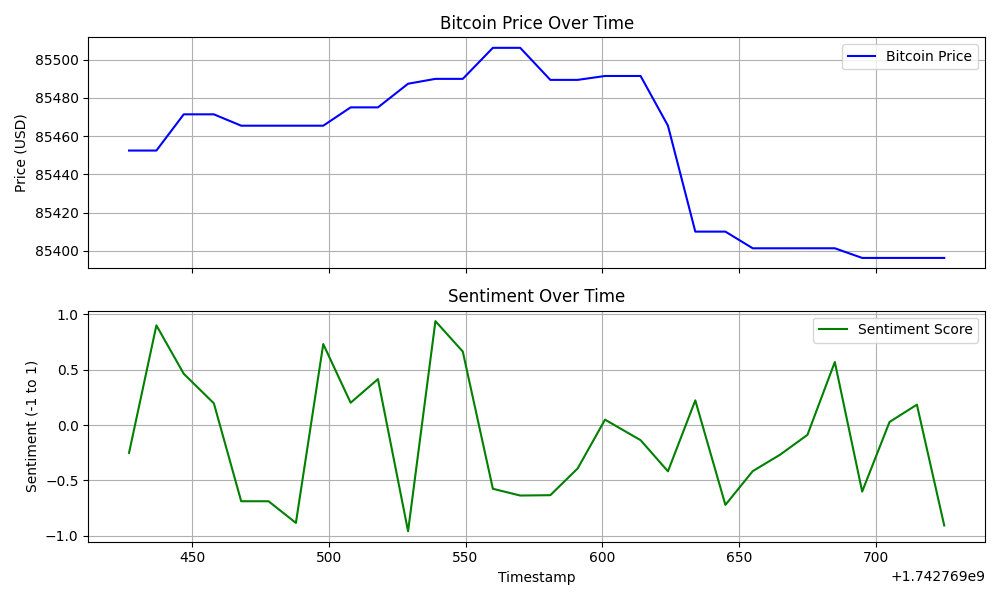
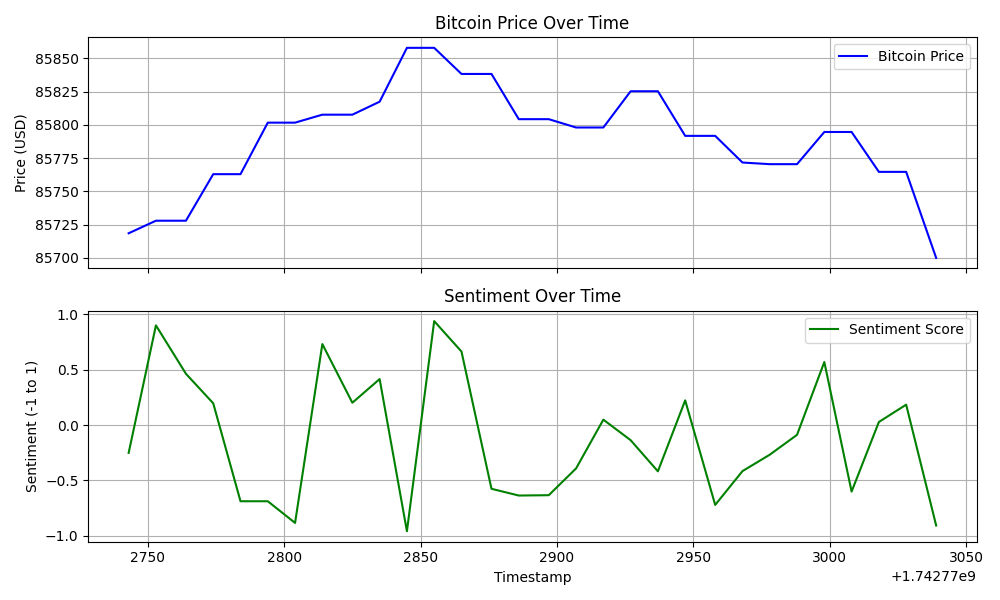
Updated plot_price_sentiment.py to read from SQLite, added .db file

diff --git a/plot_price_sentiment.py b/plot_price_sentiment.py
@@ -1,33 +1,34 @@
 import pandas as pd
 import matplotlib.pyplot as plt
+import sqlite3
 
-# Load the dataset with sentiment
-df = pd.read_csv('bitcoin_prices_with_sentiment.csv')
+# Load the data with sentiment from SQLite
+conn = sqlite3.connect('crypto_data.db')
+df = pd.read_sql_query('SELECT * FROM bitcoin_prices_with_sentiment', conn)
+conn.close()
 
-# Create a figure with two subplots (one for price, one for sentiment)
-fig, (ax1, ax2) = plt.subplots(2, 1, figsize=(10, 6), sharex=True)
+# Create a line plot with two y-axes
+fig, ax1 = plt.subplots(figsize=(10, 6))
 
-# Plot Bitcoin prices
+# Plot Bitcoin price on the left y-axis
 ax1.plot(df['timestamp'], df['price'], color='blue', label='Bitcoin Price')
-ax1.set_title('Bitcoin Price Over Time')
-ax1.set_ylabel('Price (USD)')
-ax1.legend()
-ax1.grid(True)
+ax1.set_xlabel('Timestamp')
+ax1.set_ylabel('Price (USD)', color='blue')
+ax1.tick_params(axis='y', labelcolor='blue')
 
-# Plot sentiment scores
-ax2.plot(df['timestamp'], df['sentiment'], color='green', label='Sentiment Score')
-ax2.set_title('Sentiment Over Time')
-ax2.set_xlabel('Timestamp')
-ax2.set_ylabel('Sentiment (-1 to 1)')
-ax2.legend()
-ax2.grid(True)
+# Create a second y-axis for sentiment
+ax2 = ax1.twinx()
+ax2.plot(df['timestamp'], df['sentiment'], color='green', label='Sentiment')
+ax2.set_ylabel('Sentiment Score', color='green')
+ax2.tick_params(axis='y', labelcolor='green')
 
-# Adjust layout to prevent overlap
-plt.tight_layout()
+# Add a title and legend
+plt.title('Bitcoin Price vs. Sentiment Over Time')
+fig.legend(loc='upper center', bbox_to_anchor=(0.5, -0.05), ncol=2)
 
 # Save the plot as an image
-plt.savefig('price_sentiment_plot.png')
-print("Plot saved as price_sentiment_plot.png")
+plt.savefig('price_vs_sentiment.png', bbox_inches='tight')
+print("Plot saved as price_vs_sentiment.png")
 
-# Display the plot
+# Display the plot (optional, might not work in some environments)
 plt.show()
